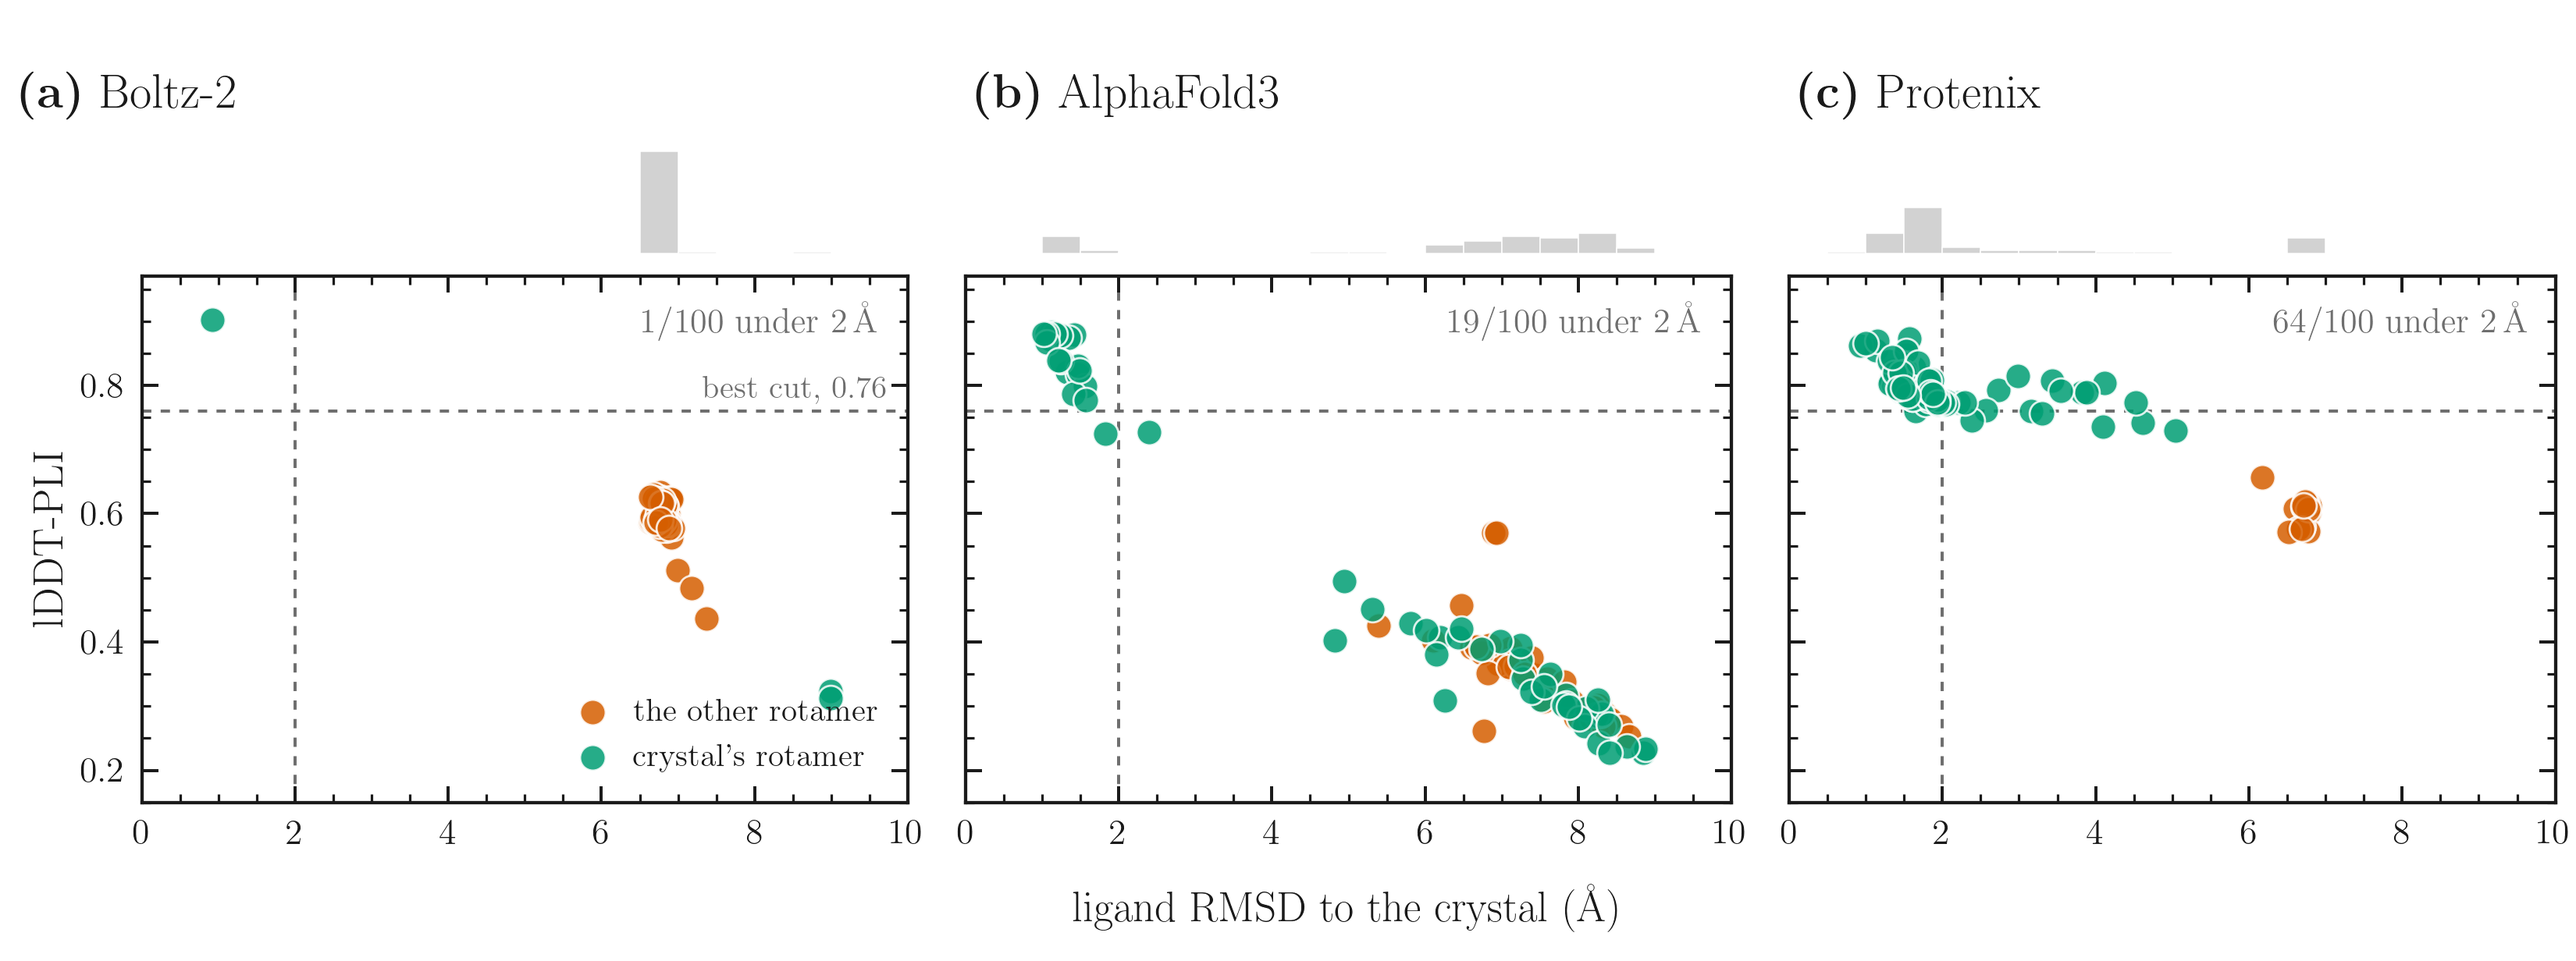
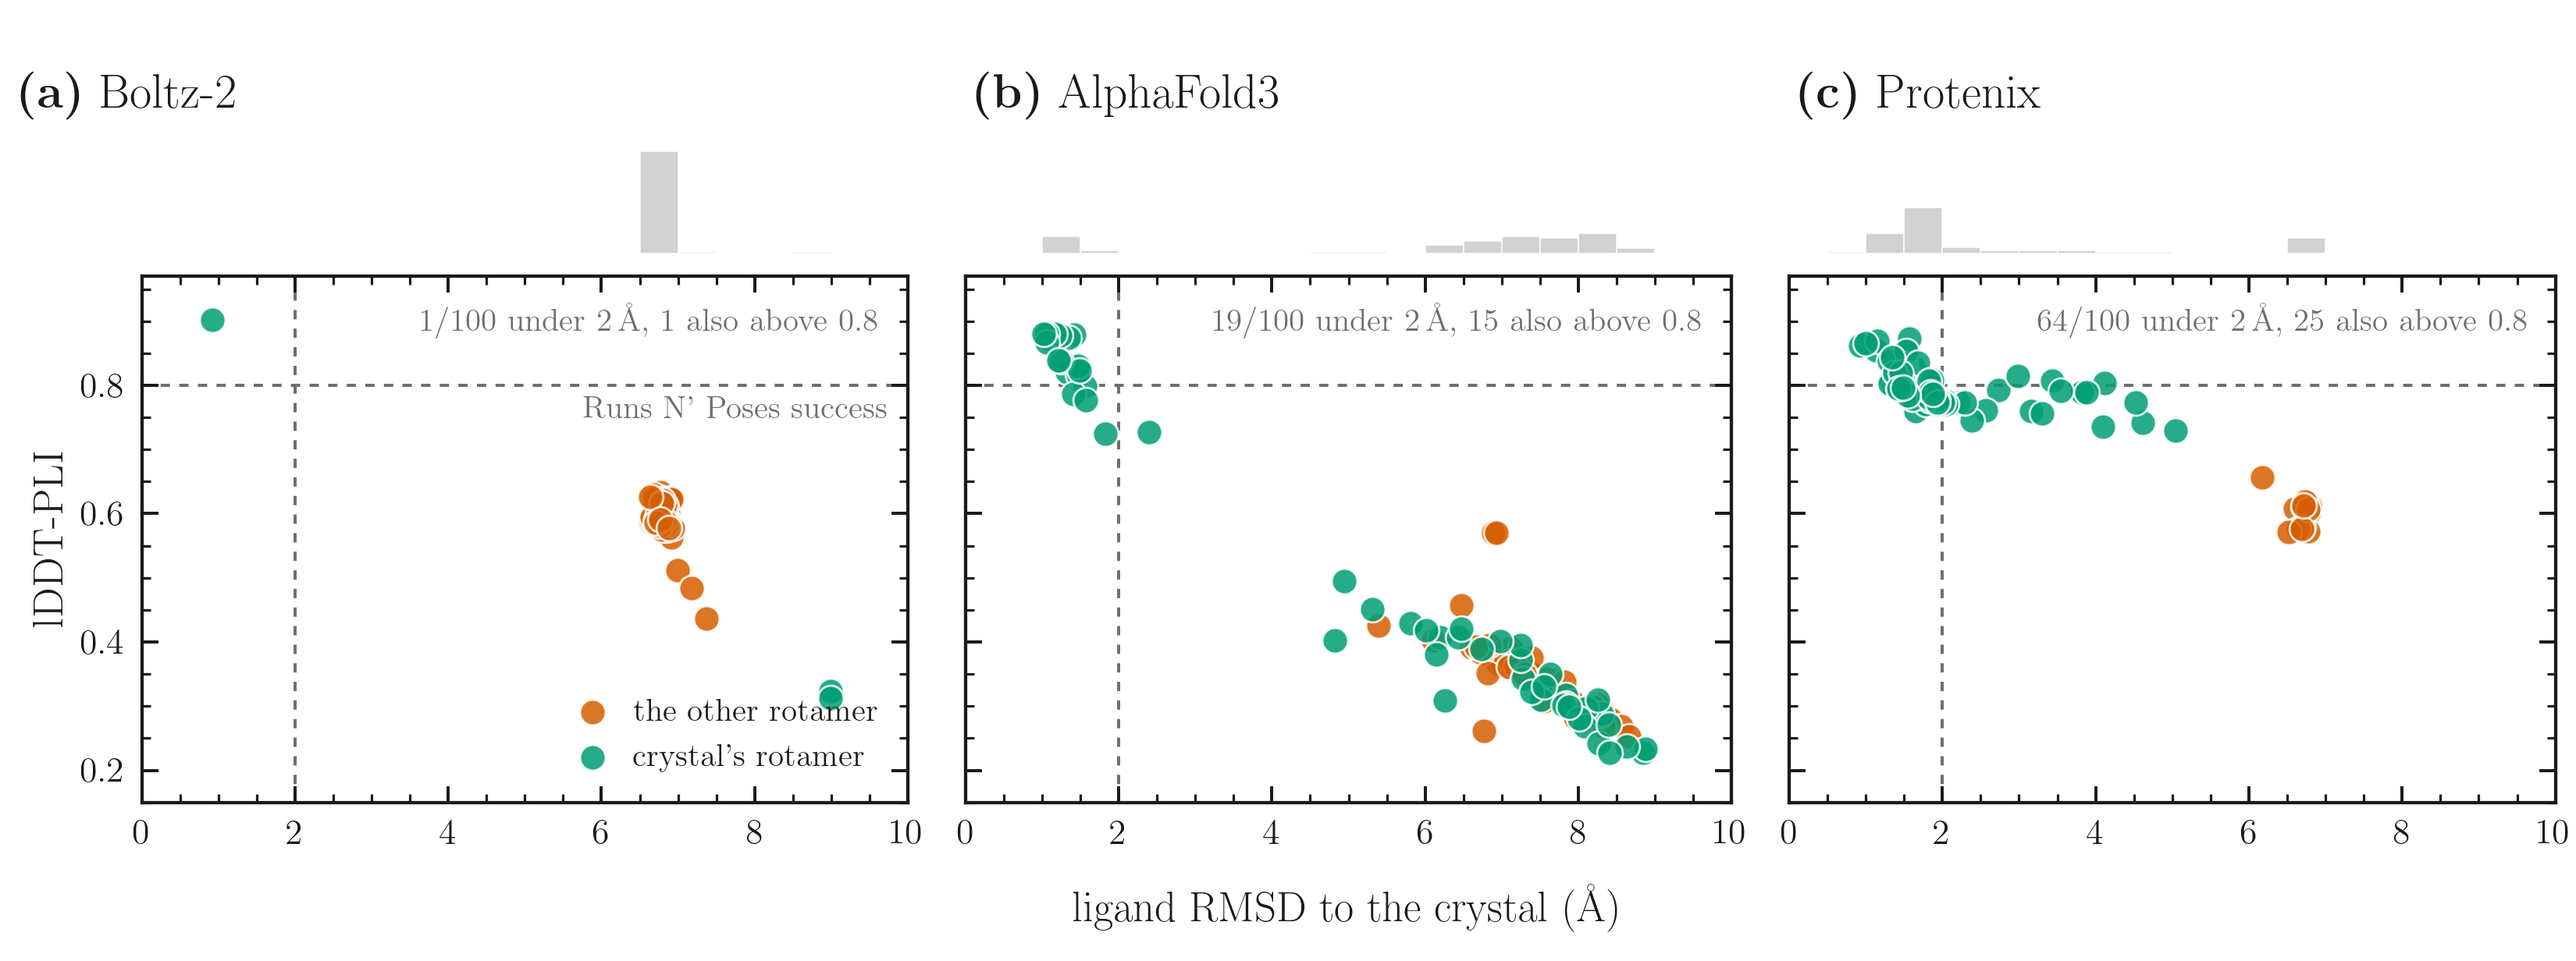
Show the Runs N' Poses trend, and adopt its success criterion
The README asserted the familiarity trend and linked the paper; it now shows it.
Figure 1 of the preprint is reproduced unmodified under CC BY 4.0, which that
version carries explicitly, with attribution in results/figures/PROVENANCE.md and
a note in LICENSE's section of the README that the file is not MIT. The journal
version sits behind a login and its licence was not checked, so the figure is the
preprint's and the caption says so -- including that the preprint evaluates
Boltz-1, not Boltz-2.

Reading the paper properly corrected a claim made here two commits ago. There is a
published lDDT-PLI threshold after all: Runs N' Poses defines success as RMSD < 2 A
AND lDDT-PLI > 0.8. The landscape figure now draws that criterion instead of the
cut fitted from our own labels, which is the better line to show because it is
external and because it is what a comparison against that paper has to use. The
fitted cut is still computed and printed, and at 0.76 it lands close to the
published 0.8, which makes it a check rather than a proposal.

That change is not cosmetic. Under the combined criterion Protenix's 64 sub-2 A
poses on 8SGE are 25 successes, because a pose can be within 2 A and still have
given up contacts. Every count in this repository uses RMSD alone and is therefore
more lenient than the benchmark it cites; the cross-model section and the landscape
caption now say so rather than leaving the reader to assume otherwise.
[…]

diff --git a/scripts/figure_landscape.py b/scripts/figure_landscape.py
@@ -16,12 +16,17 @@ Two things the panels are drawn to show:
 Colour is the axial torsion C12-C11-N1-C3, the order parameter that distinguishes
 the two rotamers, not a restatement of the x axis.
 
-The horizontal line is the lDDT-PLI cut that best separates RMSD < 2 A from the rest
-over all 300 poses (Youden's J, computed here, not a published threshold). It is
-drawn to be read against the vertical RMSD = 2 A line: the two off-diagonal quadrants
-are where the two metrics disagree, and the per-model counts are printed below. The
-cut is fitted on the same labels it is scored against, so it is optimistic -- and it
-is not a selection rule in any case, because lDDT-PLI needs the deposited complex.
+The horizontal line is Runs N' Poses' own success criterion, lDDT-PLI > 0.8, which
+that benchmark applies together with RMSD < 2 A. The two dashed lines therefore cut
+each panel into the benchmark's four outcomes, and the top-left box is what it would
+score as a success -- a stricter count than RMSD alone, and the one to quote when
+comparing against that paper.
+
+For reference the script also fits the cut that best separates RMSD < 2 A from the
+rest over these 300 poses (Youden's J) and prints it. It lands at 0.76, close to the
+published 0.8, which is a check on the criterion rather than a proposal: a cut fitted
+on the labels it is scored against is optimistic, and lDDT-PLI cannot select anything
+in any case, since it needs the deposited complex to compute.
 
     python scripts/figure_landscape.py
 """
@@ -48,6 +53,7 @@ MODELS = ["Boltz-2", "AlphaFold3", "Protenix"]
 MSA = "full 2633"
 RMSD_MAX = 10.0
 HIT = 2.0
+RNP_PLI = 0.8          # Runs N' Poses: success is RMSD < 2 A AND lDDT-PLI > 0.8
 
 
 def load(path: Path, msa: str) -> dict[str, dict[str, np.ndarray]]:
@@ -98,21 +104,23 @@ def main() -> int:
             ax.scatter(d["rmsd"][mask], d["pli"][mask], s=115, c=colour, alpha=0.85,
                        linewidths=0.9, edgecolors=fs.SURFACE, zorder=3, label=label)
         ax.axvline(HIT, color=fs.MUTED, lw=1.3, ls=(0, (3, 3)), zorder=1)
-        ax.axhline(sep.cut, color=fs.MUTED, lw=1.3, ls=(0, (3, 3)), zorder=1)
+        ax.axhline(RNP_PLI, color=fs.MUTED, lw=1.3, ls=(0, (3, 3)), zorder=1)
         ax.set_xlim(0, RMSD_MAX)
         ax.set_ylim(0.15, 0.97)
         ax.set_xticks([0, 2, 4, 6, 8, 10])
         fs.box(ax)
 
-        n_hit = int((d["rmsd"] < HIT).sum())
+        hit = d["rmsd"] < HIT
+        n_hit, n_rnp = int(hit.sum()), int((hit & (d["pli"] > RNP_PLI)).sum())
         fs.panel(fig, top, letter, dx=0.004 if col else -0.047, dy=0.020, text=model)
-        ax.annotate(fs.tex(rf"{n_hit}/{d['rmsd'].size} under 2\,\AA"),
+        ax.annotate(fs.tex(rf"{n_hit}/{d['rmsd'].size} under 2\,\AA, "
+                           rf"{n_rnp} also above 0.8"),
                     (0.965, 0.95), xycoords="axes fraction", ha="right", va="top",
-                    fontsize=14.5, color=fs.MUTED)
+                    fontsize=13.5, color=fs.MUTED)
         if col == 0:
             ax.set_ylabel("lDDT-PLI")
-            ax.annotate(fs.tex(rf"best cut, {sep.cut:.2f}"), (9.75, sep.cut + 0.012),
-                        ha="right", va="bottom", fontsize=13.5, color=fs.MUTED)
+            ax.annotate(fs.tex(r"Runs N' Poses success"), (9.75, RNP_PLI - 0.016),
+                        ha="right", va="top", fontsize=13.5, color=fs.MUTED)
             ax.legend(frameon=False, loc="lower right", fontsize=13.5,
                       handletextpad=0.25, borderaxespad=0.55, scatterpoints=1)
         else:
@@ -125,7 +133,11 @@ def main() -> int:
     out.parent.mkdir(parents=True, exist_ok=True)
     fig.savefig(out, dpi=220)
     print(f"wrote {out}")
-    print(f"  pooled lDDT-PLI cut {sep.cut:.3f}  J={sep.youden_j:.3f}  "
+    rnp = (pooled_rmsd < HIT) & (pooled_pli > RNP_PLI)
+    print(f"  Runs N' Poses success (RMSD < 2 A and lDDT-PLI > 0.8): "
+          f"{int(rnp.sum())}/{rnp.size}, against {int((pooled_rmsd < HIT).sum())}"
+          f"/{rnp.size} on RMSD alone")
+    print(f"  best-fit lDDT-PLI cut {sep.cut:.3f}  J={sep.youden_j:.3f}  "
           f"wrong poses above it={sep.accepted_negatives}  "
           f"right poses below it={sep.rejected_positives}  "
           f"(agrees with RMSD < 2 A on "
@@ -138,8 +150,9 @@ def main() -> int:
         above = d["pli"] >= sep.cut
         print(f"  {model:<12} n={d['rmsd'].size:3d}  <2A={int(hit.sum()):3d}  "
               f"crystal rotamer={int(d['axis'].sum()):3d}  in the 2.5-5 A gap={gap:3d}  "
-              f"miss above cut={int((above & ~hit).sum()):3d}  "
-              f"hit below cut={int((~above & hit).sum()):3d}  "
+              f"RNP success={int((hit & (d['pli'] > RNP_PLI)).sum()):3d}  "
+              f"miss above fitted cut={int((above & ~hit).sum()):3d}  "
+              f"hit below it={int((~above & hit).sum()):3d}  "
               f"misses top out at {d['pli'][~hit].max():.3f}")
     return 0
 

diff --git a/README.md b/README.md
@@ -5,6 +5,20 @@ accuracy scales with **familiarity** — how close a complex sits to something t
 model was trained on. Read as a coverage problem, that points at more data and more
 post-training.
 
+![success rate against similarity to the training set](results/figures/rnp_familiarity.jpg)
+
+Figure 1 of [Škrinjar, Eberhardt, Durairaj and
+Schwede](https://doi.org/10.1101/2025.02.03.636309), reproduced unmodified under
+[CC BY 4.0](https://creativecommons.org/licenses/by/4.0/) — the one figure here that
+is not ours; see `results/figures/PROVENANCE.md`. Success is RMSD < 2 Å **and**
+lDDT-PLI > 0.8, and the four methods are AlphaFold3, Protenix, Chai-1 and Boltz-1.
+
+The grey line is the one to look at. It is the best of the four methods' top-ranked
+models, picked with the answer in hand, and it runs above every individual method in
+every bin: the models fail on different systems, so a good fraction of the misses are
+already being produced by *somebody*. That is a selection and sampling statement, not
+a coverage one, and it is the opening this repository works in.
+
 This repository tests the other reading: that for at least some of these misses the
 right pose is already inside the model's reach and the sampler never visits it. If
 that holds, the miss is a **search** failure at inference, and the lever is
@@ -29,8 +43,9 @@ being hard, so the honest reading is that a population-level trend gives you no 
 on an individual complex — which is the case in which you would want to spend
 inference compute.
 
-Cells are not uniformly sampled and Protenix has only been run on 8SGE — read
-`data/cross_model/PROVENANCE.md` before quoting a rate.
+Cells are not uniformly sampled, a hit here is RMSD < 2 Å alone rather than the
+benchmark's stricter combined criterion, and Protenix has only been run on 8SGE —
+read `data/cross_model/PROVENANCE.md` before quoting a rate.
 
 ## There are two answers, not a spread
 
@@ -47,12 +62,13 @@ lobes are the two rotamers of one hindered bond, and the model picks one.
 
 Two things fall out of that panel and set up everything else here:
 
-- **The horizontal line is the best lDDT-PLI cut there is**: 0.76, fitted on these
-  300 poses against RMSD < 2 Å and agreeing with it on 284 of them. It is still not a
-  selection rule — lDDT-PLI draws its contact pairs from the deposited complex, so
-  computing it needs the answer it would stand in for — and it does not transfer:
-  wrong poses top out at 0.63 under Boltz-2, 0.73 under AlphaFold3 and 0.82 under
-  Protenix, which is why all 15 disagreements are in panel (c).
+- **The dashed lines are Runs N' Poses' own success criterion**, RMSD < 2 Å *and*
+  lDDT-PLI > 0.8, so the top-left box of each panel is what that benchmark would
+  score. It is stricter than RMSD alone and the gap is not small: Protenix's 64
+  sub-2 Å poses are 25 successes, because a pose can be close and still have given up
+  contacts. The best cut these 300 poses can support is 0.76, near the published 0.8
+  — but no cut on lDDT-PLI selects anything in practice, since it draws its contact
+  pairs from the deposited complex and so needs the answer it would stand in for.
 - **The right axis is necessary, not sufficient.** AlphaFold3's green points at
   6–9 Å are the crystal's rotamer in the wrong place.
 
@@ -172,4 +188,6 @@ docs/method.md       what the intervention is and why it is where it is
 
 ## License
 
-MIT. See `LICENSE`.
+MIT, except `results/figures/rnp_familiarity.jpg`, which is someone else's figure
+reproduced under CC BY 4.0 and attributed in `results/figures/PROVENANCE.md`. See
+`LICENSE`.

diff --git a/results/figures/PROVENANCE.md b/results/figures/PROVENANCE.md
@@ -1,0 +1,46 @@
+# Figures
+
+Every file here except one is generated by a script in `scripts/` from committed
+data, and can be rebuilt on a fresh clone with no GPU:
+
+| file | script |
+| --- | --- |
+| `cross_model.png` | `scripts/figure_cross_model.py` |
+| `landscape.png` | `scripts/figure_landscape.py` |
+| `8sge_best_of_n.png` | `scripts/figure_bestofn.py` |
+| `8sge_compound.png` | `scripts/figure_compound.py` |
+| `8sge_rescue.png` | `scripts/figure_8sge.py` |
+| `8sge_viewer.html` | `scripts/viewer_8sge.py` |
+| `nb0*.png` | the notebooks of the same number |
+
+## `rnp_familiarity.jpg` — not ours, and not MIT
+
+This one file is reproduced from someone else's paper. It is **Figure 1** of the
+Runs N' Poses preprint:
+
+> Peter Škrinjar, Jérôme Eberhardt, Janani Durairaj, Torsten Schwede.
+> *Have protein-ligand co-folding methods moved beyond memorisation?*
+> bioRxiv 2025.02.03.636309, version 2, posted 10 February 2025.
+> <https://doi.org/10.1101/2025.02.03.636309>
+
+The preprint carries this statement: "The copyright holder for this preprint is
+the author/funder, who has granted bioRxiv a license to display the preprint in
+perpetuity. It is made available under a CC-BY 4.0 International license."
+
+It is therefore reproduced here **unmodified**, under
+[CC BY 4.0](https://creativecommons.org/licenses/by/4.0/), with attribution. The
+MIT licence in `LICENSE` covers the rest of this repository and does **not** cover
+this file. If you reuse it, attribute the authors above, not this repository.
+
+Source file: `F1.large.jpg`, retrieved 2026-11-22 from
+`https://www.biorxiv.org/content/biorxiv/early/2025/02/10/2025.02.03.636309/F1.large.jpg`
+(209,975 bytes, sha256 below), copied byte-for-byte with no edits, crop or recolour.
+
+The peer-reviewed version is Škrinjar, Eberhardt, Studer, Tauriello, Schwede and
+Durairaj, *Evaluating generalization in protein-ligand cofolding methods*, Nature
+Structural & Molecular Biology 33:782-794 (2026),
+<https://doi.org/10.1038/s41594-026-01797-5>. **Its licence was not checked and may
+differ**, so the figure here is taken from the CC-BY preprint, whose panels and
+method set may differ from the published version. Note in particular that the
+preprint evaluates **Boltz-1**, not Boltz-2.
+sha256: a6202c75239b9422e425e140eebda20abb090f639c14686e430a6897e0bd7eed

diff --git a/AGENTS.md b/AGENTS.md
@@ -125,6 +125,12 @@ committing data:
   recomputes nothing. A disagreement between it and a source report is an
   extraction bug, not a result. Each such table ships its extractor and a
   `PROVENANCE.md` naming the source and its checksum.
+- **Third-party:** `results/figures/rnp_familiarity.jpg` is Figure 1 of the Runs N'
+  Poses preprint, reproduced unmodified under CC BY 4.0. It is the only file here
+  that is not ours and the only one not covered by `LICENSE`; its attribution is in
+  `results/figures/PROVENANCE.md`. Do not crop, recolour or regenerate it, and do
+  not add another third-party figure without the same provenance entry and a
+  checked licence.
 - **Never committed:** run directories, checkpoints, model caches, unpacked MSAs,
   bulk datasets. `runs/` is ignored and is the only place runs may be written.
 
